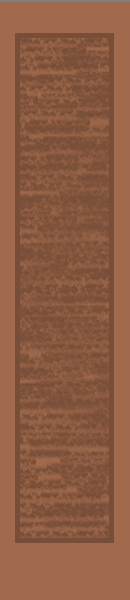
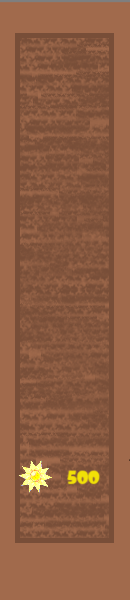
肥料價格顯示

Changed region(s): [[0.1538, 0.75, 0.4, 0.84], [0.5231, 0.78, 0.7692, 0.81]]

diff --git a/Plant_vs_Zombie/src/controller/Fertilizer.java b/Plant_vs_Zombie/src/controller/Fertilizer.java
@@ -10,8 +10,8 @@ public class Fertilizer implements MouseMotionListener, MouseListener{
 	
 	private PlantFactory plant_factory;
 	private String imgsrc ="Images\\UI\\fertilizer.png";
-	private int initial_x=30, initial_y=425;
-	private int cur_x=30, cur_y=425;
+	private int initial_x=30, initial_y=400;
+	private int cur_x=30, cur_y=400;
 	private int width =76, height=76;
 	private int offset_x=38, offset_y=38;
 	private boolean draging = false;

diff --git a/Plant_vs_Zombie/src/model/Entity/PlantFactory.java b/Plant_vs_Zombie/src/model/Entity/PlantFactory.java
@@ -62,7 +62,7 @@ public class PlantFactory {
 	public void upgrade_plant(int x, int y) {
 		int col = (x-210)/80;
 		int row = (y-50)/100;
-		int fertilier_price = 200;
+		int fertilier_price = 500;
 		if(row>=0 && row<=4 && col>=0 && col<=8) {
 			if(plants_arr[row][col]!=null && plants_arr[row][col].is_alive()) {
 				Plant plant = plants_arr[row][col];
